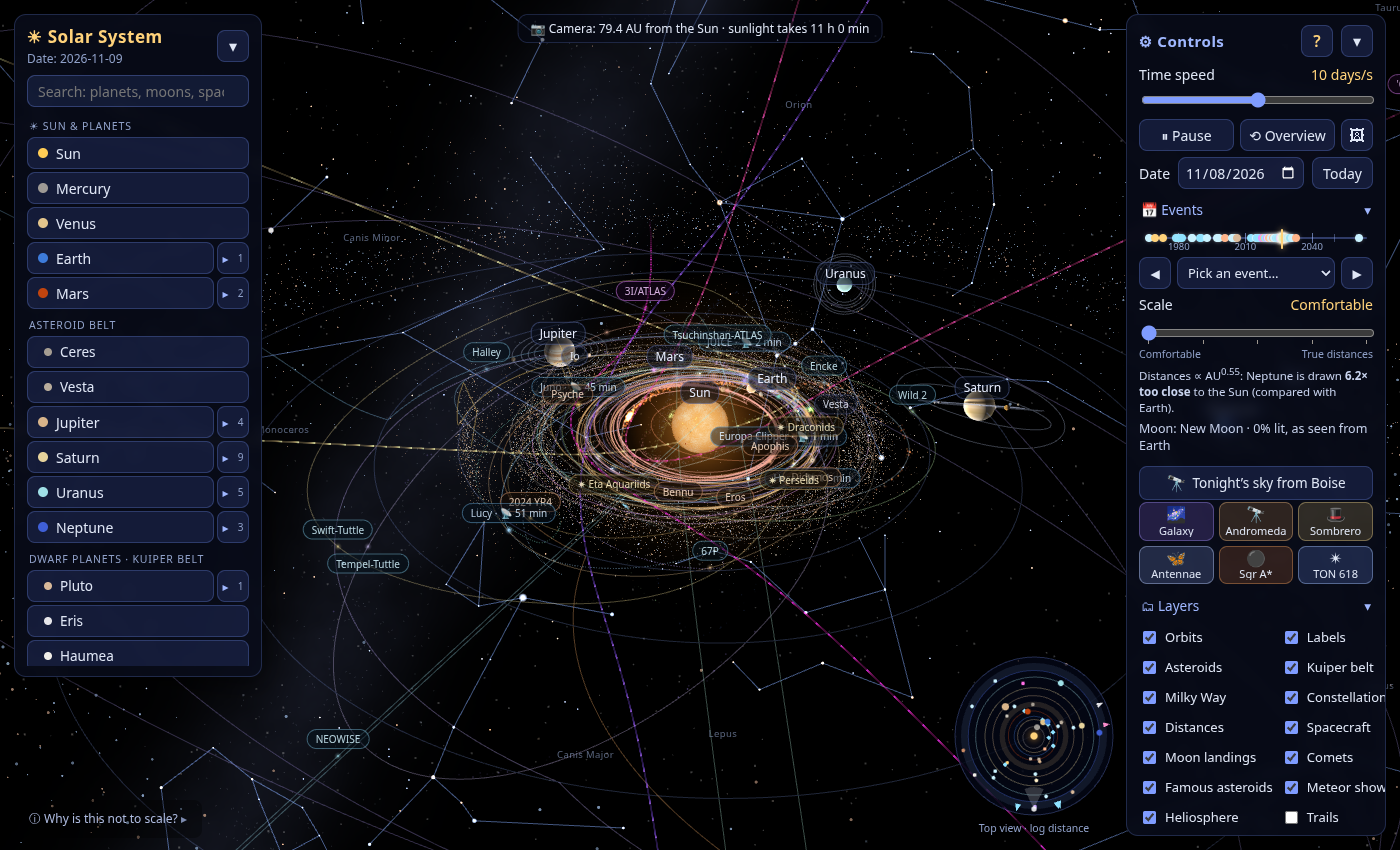
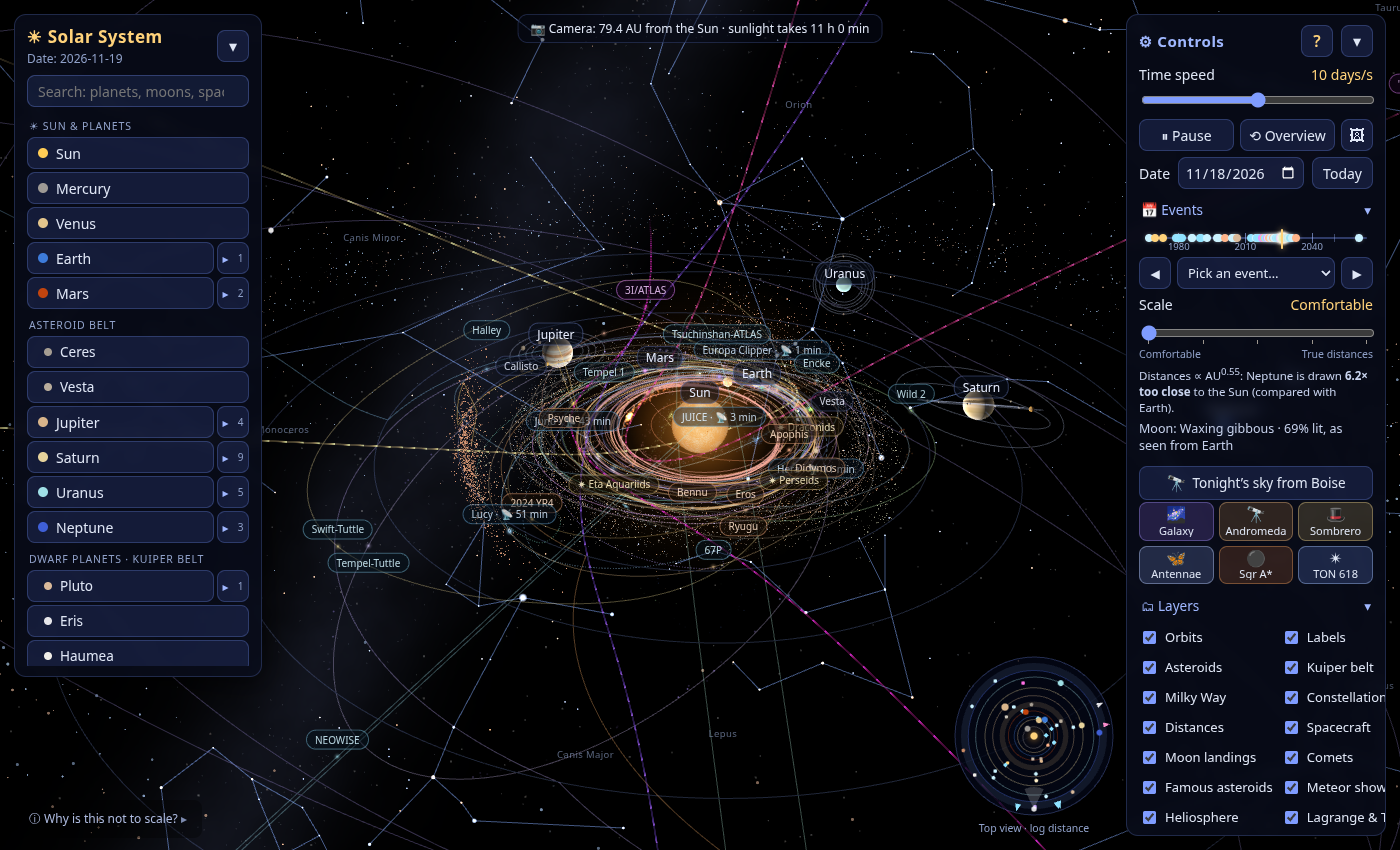
lagrange: fade thresholds relative to the planets' drawn distance (work with the Scale slider); Changelog 2026-10-28, README/CONTRIBUTING, new screenshot-lagrange.png, refreshed screenshot.png

diff --git a/lagrange/index.js b/lagrange/index.js
@@ -522,12 +522,13 @@ export function createLagrange({ scene, bodies = [], spacecraft, search, scaleDi
     u.uScale.value = H * pr / (2 * tanH); u.uMaxPx.value = (isTouch ? 3 : 4) * pr;
     applyFollow(camera);
     // markers and labels: hidden in the overview, fade in as you zoom in (or near the planet, or while a card is open)
-    const cam = camera.position, camSun = cam.length();
+    // thresholds in units of the planet's drawn distance, so they still work after scale/ changes the distance scale
+    const cam = camera.position, camSun = cam.length(), RE = planetW.E.length() || 20, RJ = planetW.J.length() || 40.7;
     const openSys = open ? (cardOf(open).sys || (namedBy[open] || ['trojans', 'hildas', 'lagrange'].includes(open) ? 'J' : null)) : null;
     const flySys = pending ? (cardOf(pending).sys || 'J') : null;
-    fade.E = Math.max(1 - smooth(camSun, 45, 75), 1 - smooth(cam.distanceTo(planetW.E), 22, 40), openSys === 'E' || flySys === 'E' || open === 'lagrange' ? 1 : 0);
-    fade.J = Math.max(1 - smooth(camSun, 110, 140), 1 - smooth(cam.distanceTo(planetW.J), 35, 60), openSys === 'J' || flySys === 'J' ? 1 : 0);
-    if (camSun > 600) fade.E = fade.J = 0;
+    fade.E = Math.max(1 - smooth(camSun / RE, 2.25, 3.75), 1 - smooth(cam.distanceTo(planetW.E), 22, 40), openSys === 'E' || flySys === 'E' || open === 'lagrange' ? 1 : 0);
+    fade.J = Math.max(1 - smooth(camSun / RJ, 2.7, 3.45), 1 - smooth(cam.distanceTo(planetW.J), 35, 60), openSys === 'J' || flySys === 'J' ? 1 : 0);
+    if (camSun > RJ * 15) fade.E = fade.J = 0;
     const k = 2 * tanH / H;
     for (const sys of ['E', 'J']) for (const p of LP[sys]) {
       p.marker.visible = fade[sys] > 0.01;
@@ -538,7 +539,7 @@ export function createLagrange({ scene, bodies = [], spacecraft, search, scaleDi
     for (const n of named) {
       const near = cam.distanceTo(n.pos);
       let f = n.camp === 'belt' || n.camp === 'hilda' ? Math.max(1 - smooth(near, 12, 25), open === n.key || (n.camp === 'hilda' && open === 'hildas') ? 1 : 0)
-        : Math.max(fade.J * (1 - smooth(camSun, 108, 128)), 1 - smooth(near, 15, 30), open === n.key ? 1 : 0, open && (open === 'trojans' || open === `J-${n.camp}`) ? fade.J : 0);
+        : Math.max(fade.J * (1 - smooth(camSun / RJ, 2.65, 3.15)), 1 - smooth(near, 15, 30), open === n.key ? 1 : 0, open && (open === 'trojans' || open === `J-${n.camp}`) ? fade.J : 0);
       if (n.camp === 'belt' && open && LUCY_TARGETS.includes(open)) f = Math.max(f, 0.6);
       n.marker.visible = f > 0.01;
       n.marker.material.opacity = 0.95 * f;

diff --git a/CHANGELOG.md b/CHANGELOG.md
@@ -1,5 +1,65 @@
 # Changelog
 
+## 2026-10-28: Lagrange points and Jupiter's Trojan asteroids (Space Model Coder)
+
+### Added
+- **Lagrange points L1–L5** for the Sun–Earth system (blue) and the Sun–Jupiter system (gold): a small ring marker and a label for each, placed from the planet's real position on the shown date (the same ephemeris the planets use). L4 and L5 are 60° ahead of and behind the planet along its orbit, L3 is opposite it, and L1/L2 sit on the Sun–planet line.
+  - At this scale the real L1 and L2 would be inside the planet's (enlarged) globe, so they are drawn just outside its moons: Earth's at the spot where `spacecraft/` already draws JWST, Jupiter's just past Callisto. The cards say so.
+  - They stay hidden in the default overview and fade in when you zoom in (or get near Earth or Jupiter, or open one of their cards), so the default view is unchanged apart from the Trojans (see below).
+- **Jupiter's Trojan swarms**: 4,100 dots (1,900 on touch devices) looping around Jupiter's L4 (the leading "Greeks", about 1.7× more) and L5 (the trailing "Trojans"), moving with Jupiter. Each dot follows a tadpole-shaped loop around its point (3–38° wide, ~150 years per loop, longer toward L3) with its own small eccentricity and a tilt of up to ~40°, so the swarms are long and thick like the real ones.
+- **The Hilda group**: 1,100 dots (450 on touch) at ~4 AU in the 3:2 resonance with Jupiter. Together they make a slowly turning triangle with corners at Jupiter's L3, L4 and L5.
+- **Named objects on their real JPL orbits**: 624 Hektor, 588 Achilles, 617 Patroclus–Menoetius, 3548 Eurybates, 15094 Polymele, 11351 Leucus, 21900 Orus, 52246 Donaldjohanson (the main-belt asteroid Lucy flew past in 2025, not a Trojan) and 153 Hilda. Each has a dot, a label and a card with its size, discovery, live distance from the Sun and Earth, and how far ahead of or behind Jupiter it is on the shown date.
+- **Cards**: what Lagrange points are, all ten L-points, the Trojans, the Hildas and each named object. The L-point cards list who's there: SOHO, ACE, Wind, DSCOVR, Aditya-L1, IMAP and SWFO-L1 at Sun–Earth L1, and JWST and Euclid (before them Gaia, Planck, Herschel and WMAP) at L2. They also cover the Earth Trojans 2010 TK7 and 2020 XL5 at L4, and ESA's planned Vigil at L5. Card buttons jump between L-points, to the named Trojans, to JWST (the existing `spacecraft/` one) and to Lucy, plus a "🔭 View" button.
+- **Lucy's card** (`spacecraft/`) now has a row of buttons to its targets: Donaldjohanson, Eurybates, Polymele, Leucus, Orus, Patroclus–Menoetius and the Trojan swarms. This is added from `lagrange/`, with no change to `spacecraft/`.
+- **Search**: `lagrange`, `L1`–`L5` (Sun–Earth first), `jupiter l4`…, `trojans`, `greeks`, `trojan camp`, `lucy targets`, `hildas`, `hektor`, `achilles`, `patroclus`, `menoetius`, `eurybates`, `queta`, `polymele`, `leucus`, `orus`, `donaldjohanson`, `soho`, `gaia`, `euclid`, `earth trojans`, `counter earth`, `vigil`… Each one flies there with main.js's `flyTo`, opens the card, and then keeps the view turning with the planet (or following the asteroid) until you move the camera. `lucy` still finds the spacecraft first.
+  - The Trojan and Jupiter-point views look down from almost overhead, with the Sun on the left, Jupiter on the right, the Greeks at the top and the Trojans at the bottom, so both swarms sit between the side panels.
+- **Layers → Lagrange & Trojans** checkbox (on by default, remembered as `solar.lagrange`). It hides the markers, labels, swarms and named objects.
+- **Touch**: labels are 12 px with a ≥ 44 px tap area (25 px label plus 12 px padding above and below), and card buttons are 44 px. Clean view hides the labels. The galaxy view hides them like other solar labels.
+
+### Changed
+- `smallbodies.js` no longer adds its 2,200 Trojan and 700 Hilda dots to the asteroid belt (700 and 250 on touch). Those sat at fixed mean longitudes, so they drifted away from Jupiter's real position and the Hildas had no triangle. `lagrange/` draws both now, locked to Jupiter, and the main belt itself is unchanged. One side effect: turning off Layers → Lagrange & Trojans now hides the Trojans, and Layers → Asteroids no longer does.
+- `screenshot.png` was re-taken, since the Trojan swarms near Jupiter look a little different in the overview.
+
+### How it's made
+- **One draw call for the swarms**: a single `THREE.Points` cloud of 5,200 points (2,350 on touch), positioned in the vertex shader from Jupiter's true longitude (a uniform updated each frame). Nothing is moved on the CPU, and the cloud uses the same compressed distance scale as the planets: a, b and p of `scaleDistance(r) = a + b·r^p` are read back from main.js's function, so the Scale slider works.
+  - **Trojans**: the angle from Jupiter is ±(60° + D·(1.05 sin ψ + 0.25 sin² ψ)). The orbit shrinks by 0.24 AU·D·cos ψ while that angle grows, so each dot goes round its tadpole the right way. On top of that come an epicycle (r·(1 − e cos M), λ + 2e sin M) and the dot's own tilt and node.
+  - **Hildas**: mean longitude λ = 1.5·λJ + c and perihelion ϖ = −2c − σ, so the resonant angle 3λJ − 2λ − ϖ stays at σ (a small slow wobble). They pass Jupiter at perihelion and reach aphelion at L3, L4 and L5. Kepler's equation is solved in the shader.
+  - `perf/` thins this cloud like the belts on slow devices: it is created before the frame-rate guard collects its clouds, and has ≥ 3,000 points on desktop. Checked: at the lowest level it draws 1,819 of the 5,200 points.
+- **L-points**: L4/L5 are the planet's heliocentric position turned ±60° about its orbit normal (r × v from the ephemeris). L1/L2 use the Hill radius r·(μ/3)^⅓ (0.0100 AU for Earth and 0.355 AU for Jupiter) for the true positions shown in the cards. L3 is at −r·(1 + 5μ/12).
+- **Named objects**: two-body Kepler orbits from JPL Small-Body Database osculating elements (epoch JD 2461200.5 = 2026-06-09), using `asteroids/`'s `asteroidAU()`.
+- Cards fill main.js's `#info-panel` like `heliosphere/`, and ✕ closes just the card. Fly-to uses main.js's `flyTo` only, with function goals, after releasing any focused planet. From the galaxy view it calls `exitGalaxy` first. main.js has 6 new lines: the import, the create call, the per-frame update and `window.solar.lagrange`.
+
+### Checked against JPL
+- **JPL Horizons** (VECTORS, Sun centre, ecliptic J2000), 2026-10-28 00:00 TDB, against our positions from the SBDB elements:
+  - 624 Hektor: Horizons (−4.743947, −1.796297, −1.022175) AU, ours (−4.74403, −1.79631, −1.02219). Off by 8.6×10⁻⁵ AU ≈ 12,800 km, or 3.4″ as seen from the Sun.
+  - 617 Patroclus: off by 1.0×10⁻⁴ AU ≈ 15,600 km (4.3″).
+  - 3548 Eurybates: off by 7.1×10⁻⁵ AU ≈ 10,700 km (2.6″).
+  
+  The small difference comes from using a pure two-body orbit 141 days after the elements' epoch.
+- **Lucy's flybys**: on each flyby date, the `spacecraft/` Lucy trajectory (from Horizons) passes close to our positions:
+  - Donaldjohanson, 20 Apr 2025: 0.0004 AU.
+  - Eurybates, 12 Aug 2027: 0.0017 AU.
+  - Orus, 11 Nov 2028: 0.0045 AU.
+  - Patroclus, 2 Mar 2033: 0.044 AU. By then Patroclus's two-body orbit is almost seven years from its epoch, and Jupiter's pull isn't modelled.
+- On 2026-10-28 (Jupiter at ecliptic longitude 133.3°), Hektor is 67° ahead of Jupiter, Orus 61°, Eurybates 83° ahead and Patroclus–Menoetius 56° behind, all inside the drawn swarms.
+
+### Sources (fetched 2026-10-28)
+- JPL Small-Body Database API (`sbdb.api?sstr=…&full-prec=1&phys-par=1&discovery=1`): elements, diameters, rotation periods and discovery circumstances.
+- JPL Horizons API: the check vectors above.
+- Lucy flyby dates are from `spacecraft/missions.js` (NASA/SwRI). The moons Queta (Hubble, 2018) and Polymele's "Shaun" (stellar occultation, March 2022), the Patroclus–Menoetius pair (~113 and ~104 km, 4.28 days) and Donaldjohanson's ~8 km contact-binary shape come from NASA's Lucy mission pages.
+
+### Tested
+- Desktop (1440×900) and iPad Pro 11 emulation (portrait and landscape, touch on): the page loads with no console errors, warnings or uncaught exceptions.
+  - Layers → Lagrange & Trojans turns everything off and on and is remembered.
+  - Search `trojans` flies to the swarm view and opens the card. `hektor` flies to Hektor, opens its card and follows it. `L2` flies to Earth and opens Sun–Earth L2. Searching `lucy` opens the Lucy card with its seven target buttons.
+  - Clicking or tapping the "Jupiter L4 Greeks" label opens its card. Labels on touch are 25 px tall plus 24 px of tap padding, and card buttons are 44 px.
+  - The default overview shows no L-point markers or labels.
+  - Clean view hides the labels, and so does the galaxy view. Searching `hektor` from the galaxy view comes back to the Solar System first. The Scale slider moves the swarms with the planets.
+
+### Screenshots
+- New: `screenshot-lagrange.png` (2026-10-28: Jupiter's Greeks above and Trojans below, the Jupiter L1–L5 labels, Hektor, Orus, Eurybates and Patroclus–Menoetius).
+- Re-taken: `screenshot.png`.
+
 ## 2026-10-27: The heliosphere ships, and the Voyagers now cross on the real dates (Space Model Coder)
 
 ### Shipped

diff --git a/README.md b/README.md
@@ -14,7 +14,7 @@ An interactive 3D model of the solar system that runs in your browser. It's buil
 - **Date picker**: jump to any day from 1000 to 3000 AD (Today returns to now); planets, spacecraft and the Moon follow
 - Time speed slider (paused up to about 2.7 years per second), a compact Layers group (orbits, labels, belts, Milky Way), and collapsible panels; on portrait/small screens both panels start collapsed and the planet list folds away after you pick something
 - Planet list with moons folded under their planet (tap ▸ to show them; focusing a planet unfolds its moons)
-- **Asteroid belt & Kuiper belt**: thousands of GPU-animated asteroids (with the Kirkwood gaps and Jupiter's Trojans) and an icy Kuiper belt beyond Neptune, each with its own on/off checkbox
+- **Asteroid belt & Kuiper belt**: thousands of GPU-animated asteroids (with the Kirkwood gaps) and an icy Kuiper belt beyond Neptune, each with its own on/off checkbox
 - **Dwarf planets**: Ceres and Vesta in the asteroid belt; Pluto with Charon (a tidally locked double world) on its real eccentric, tilted orbit that crosses inside Neptune's; plus Eris, Haumea (egg-shaped, with a ring) and Makemake, all selectable with info panels
 - **Milky Way**: a glowing galactic band across the sky, tilted realistically to the planets' orbital plane (toggle it in Controls)
 - **Galaxy view**: zoom far out (or press 🌌 Galaxy) to see the whole Milky Way as a 4-armed barred spiral, with a pulsing "You are here: Sun" marker 26,000 light-years from the center
@@ -23,6 +23,7 @@ An interactive 3D model of the solar system that runs in your browser. It's buil
 - **Comets**: Halley's Comet and Hale-Bopp on their real elliptical orbits, with a blue ion tail pointing straight away from the Sun and a curved dust tail, both growing as the comet nears the Sun (Halley's next visit is 2061). Tap a comet's label for facts; Layers has a Comets checkbox. Also eight famous comets on real JPL orbits: 67P/Churyumov-Gerasimenko (Rosetta and Philae, with its two-lobed "rubber duck" nucleus), 2P/Encke (Taurids), 9P/Tempel 1 (Deep Impact), 81P/Wild 2 (Stardust), 109P/Swift-Tuttle (Perseids), 55P/Tempel-Tuttle (Leonids), and the great comets NEOWISE (2020) and Tsuchinshan-ATLAS (2024)
 - **Interstellar visitors**: 1I/'Oumuamua (2017), 2I/Borisov (2019) and 3I/ATLAS (2025) on their real open (hyperbolic) paths from JPL, drawn as violet/magenta curves with dashes flowing in their direction of travel. 'Oumuamua is a bare, elongated reddish rock; Borisov and 3I/ATLAS grow a coma and tail near the Sun. Their cards show the live distance and speed, and the speed they keep far from the Sun (v∞)
 - **The heliosphere**: zoom out past Neptune (or search `heliosphere`, `heliopause`, `termination shock`) to see the Sun's bubble in interstellar space: the termination shock, the heliosheath and the heliopause as faint glowing shells with a blunt nose facing the interstellar wind and a tail behind, streamlines of the interstellar wind flowing around it, and markers where Voyager 1 (2004, 2012) and Voyager 2 (2007, 2018) crossed each boundary. Tap a label for facts; Layers has a Heliosphere checkbox
+- **Lagrange points and Jupiter's Trojans**: zoom in from the overview (or search `lagrange`, `L1`, `L2`, `trojans`, `greeks`, `hektor`, `lucy targets`) to see L1–L5 of the Sun–Earth (blue) and Sun–Jupiter (gold) systems on the shown date, Jupiter's two Trojan swarms looping around L4 and L5, the Hilda triangle, and named Trojans (Hektor, Achilles, Patroclus–Menoetius and Lucy's targets) on their real JPL orbits. Tap a label for facts; Lucy's card links to its targets; Layers has a Lagrange & Trojans checkbox
 - **Meteor showers**: the eleven major annual showers (Quadrantids, Lyrids, Eta Aquariids, Perseids, Draconids, Orionids, Southern and Northern Taurids, Leonids, Geminids, Ursids) with IMO calendar data, each drawn as a faint debris stream along its parent comet's or asteroid's orbit, crossing Earth's orbit where Earth is on the peak date. While a shower is active, its radiant appears on the sky and meteors streak onto Earth; cards give the parent, next peak (countdown), ZHR, speed and when to look from Boise. Search `perseids`, `geminids` or `meteor`; peaks are in Events; Layers has a checkbox
 - **Famous asteroids**: Apophis (with its 13 Apr 2029 flyby, 31,600 km above Earth), Bennu (OSIRIS-REx), Ryugu (Hayabusa2), Didymos with its moonlet Dimorphos (DART), metal-rich Psyche, Eros (NEAR Shoemaker) and 2024 YR4 on their real JPL orbits, as spinning procedural rocks with cards showing their live distance from the Sun and Earth; findable in search, the list and the mini-map, with Events for the missions and the Apophis flyby
 - **Andromeda & the Local Group**: zoom even farther out (or press 🔭 Andromeda / `A`) to see the Andromeda Galaxy (M31) with its companions M32 and M110, shown at its true distance of ~2.5 million light-years
@@ -85,7 +86,7 @@ The first load needs internet access, because Three.js comes from the jsDelivr C
 - `sun.js`: animated close-up Sun (granulation, sunspots, limb darkening), prominences, solar flares and CMEs
 - `moons.js`: GPU-baked surfaces of the Galilean moons and the potato-shaped Phobos, Deimos and Vesta
 - `outermoons.js`: moons of Saturn, Uranus and Neptune: GPU-baked surfaces, Titan's haze, tilted/retrograde/eccentric orbits and their facts
-- `smallbodies.js`: asteroid belt, Trojans and Kuiper belt particles (Kepler orbits on the GPU), plus dwarf-planet orbits, facts and surfaces
+- `smallbodies.js`: asteroid belt and Kuiper belt particles (Kepler orbits on the GPU), plus dwarf-planet orbits, facts and surfaces
 - `planets/index.js`: real texture maps for Mercury, Venus, Jupiter, Saturn, Uranus and Neptune (`textures/planets/`, 2K on desktop, 1K on touch devices; the procedural map stays if a file fails to load), sun-facing atmosphere rims, and sun-lit rings with planet/ring shadows
 - `search/`: object index, search box, fly-to (cinematic past orbits and belts on long trips) and the grouped, filterable list
 - `scale/`: the scale slider (compressed ↔ true distance ratios), the distance / light-time HUD, and the info card's true-size comparisons (ghost Earth, true-scale moon orbits)
@@ -96,6 +97,7 @@ The first load needs internet access, because Three.js comes from the jsDelivr C
 - `comets/`: Halley's and Hale-Bopp's orbits (robust Kepler solver), coma, ion and dust tails, labels and info cards; `comets/interstellar.js` holds the JPL elements of the three interstellar visitors (hyperbolic Kepler solver in `comets/index.js`); `comets/famous.js` holds the famous periodic and great comets (SBDB elements, plus one ellipse per perihelion passage 1955–2075 for the periodic ones, integrated with planetary perturbations)
 - `meteors/`: meteor showers: IMO 2026 working-list data and parent orbits (`data.js`), debris streams, radiants, meteor streaks, labels and cards (`index.js`)
 - `heliosphere/`: the heliosphere: crossing data and card text (`data.js`), shells fitted through the four Voyager crossings, interstellar-wind streamlines, markers, labels, cards and search entries (`index.js`)
+- `lagrange/`: Lagrange points and Jupiter's Trojans: JPL elements and card text (`data.js`), L1–L5 markers, the Trojan + Hilda swarm (one GPU `Points` cloud), named Trojans, labels, cards and search entries (`index.js`)
 - `asteroids/`: famous asteroids and near-Earth objects: JPL elements (`data.js`), procedural potato / spinning-top / peanut meshes (`shapes.js`), orbits, labels, cards and the Apophis 2029 flyby (hooked in through `comets/index.js`)
 - `style.css`: dark space-themed UI that adapts to touch screens
 - `.nojekyll`: tells GitHub Pages to serve the files as they are

diff --git a/CONTRIBUTING.md b/CONTRIBUTING.md
@@ -5,7 +5,7 @@ Several bots work on this repo at once, each in its own lane. Stay in yours, and
 ## Ownership
 | Area | Owner |
 |---|---|
-| App shell, UI panels, picking/touch, solar-system structure (orbits, moons in `moons.js` / `outermoons.js`, belts in `smallbodies.js`), Sun (`sun.js`), Tonight's sky panel (`skytonight/`), heliosphere (`heliosphere/`) | Space Model Coder |
+| App shell, UI panels, picking/touch, solar-system structure (orbits, moons in `moons.js` / `outermoons.js`, belts in `smallbodies.js`), Sun (`sun.js`), Tonight's sky panel (`skytonight/`), heliosphere (`heliosphere/`), Lagrange points and Trojans (`lagrange/`) | Space Model Coder |
 | Camera in `main.js`: `flyTo`, `updateCamera`, `focusOn`, arrival/drift logic | ScaleBot |
 | `galaxy.js`, `deepspace.js`, `sombrero.js`, `sgra.js`, `ton618.js`, `antennae.js` | Galaxy Builder/Coder |
 | `earth/`, `textures/earth/` (keep `uEarthTint` and `getCinematicStart()` stable) | EarthBot |
